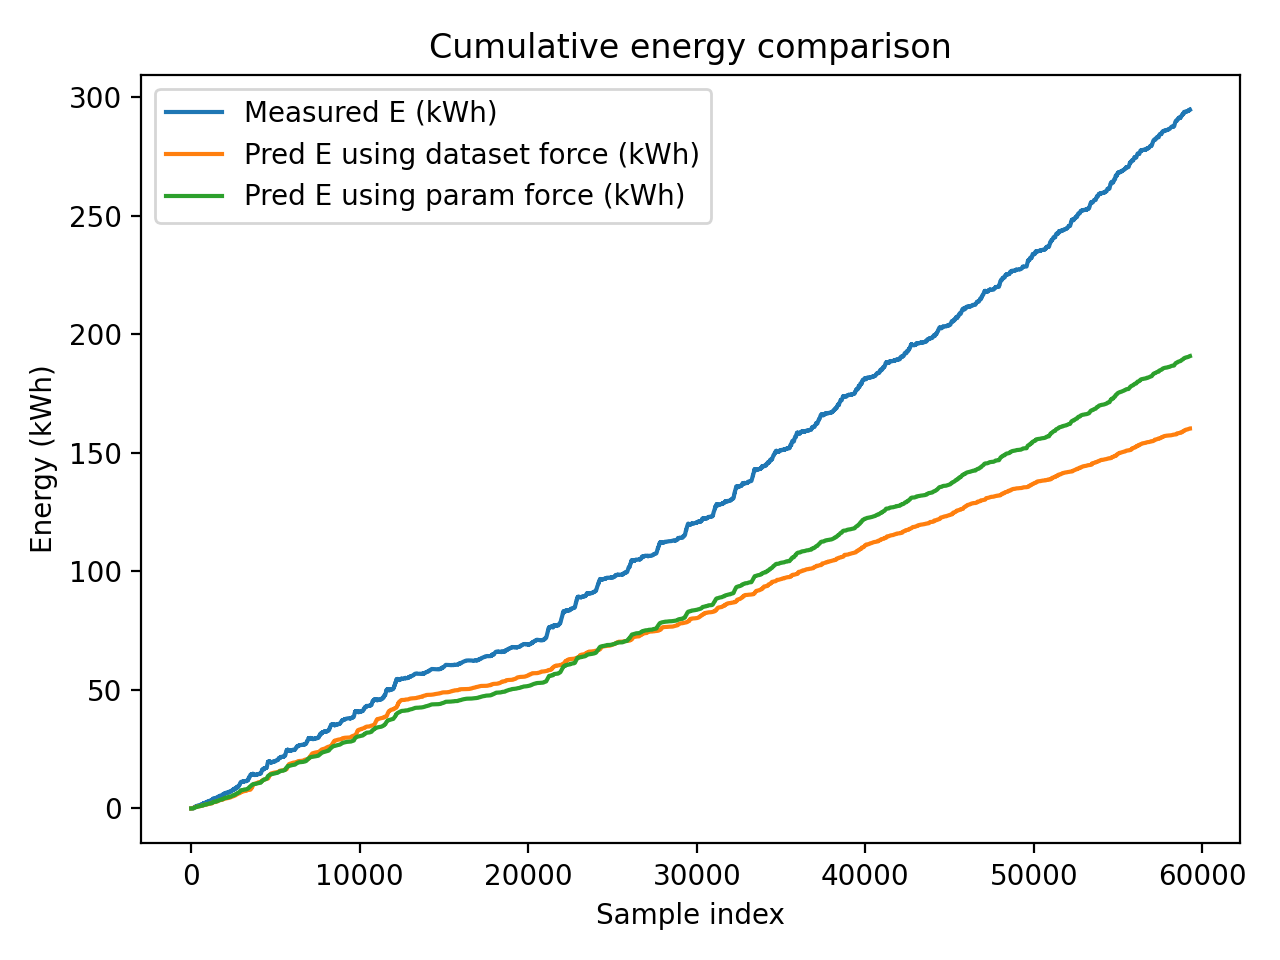
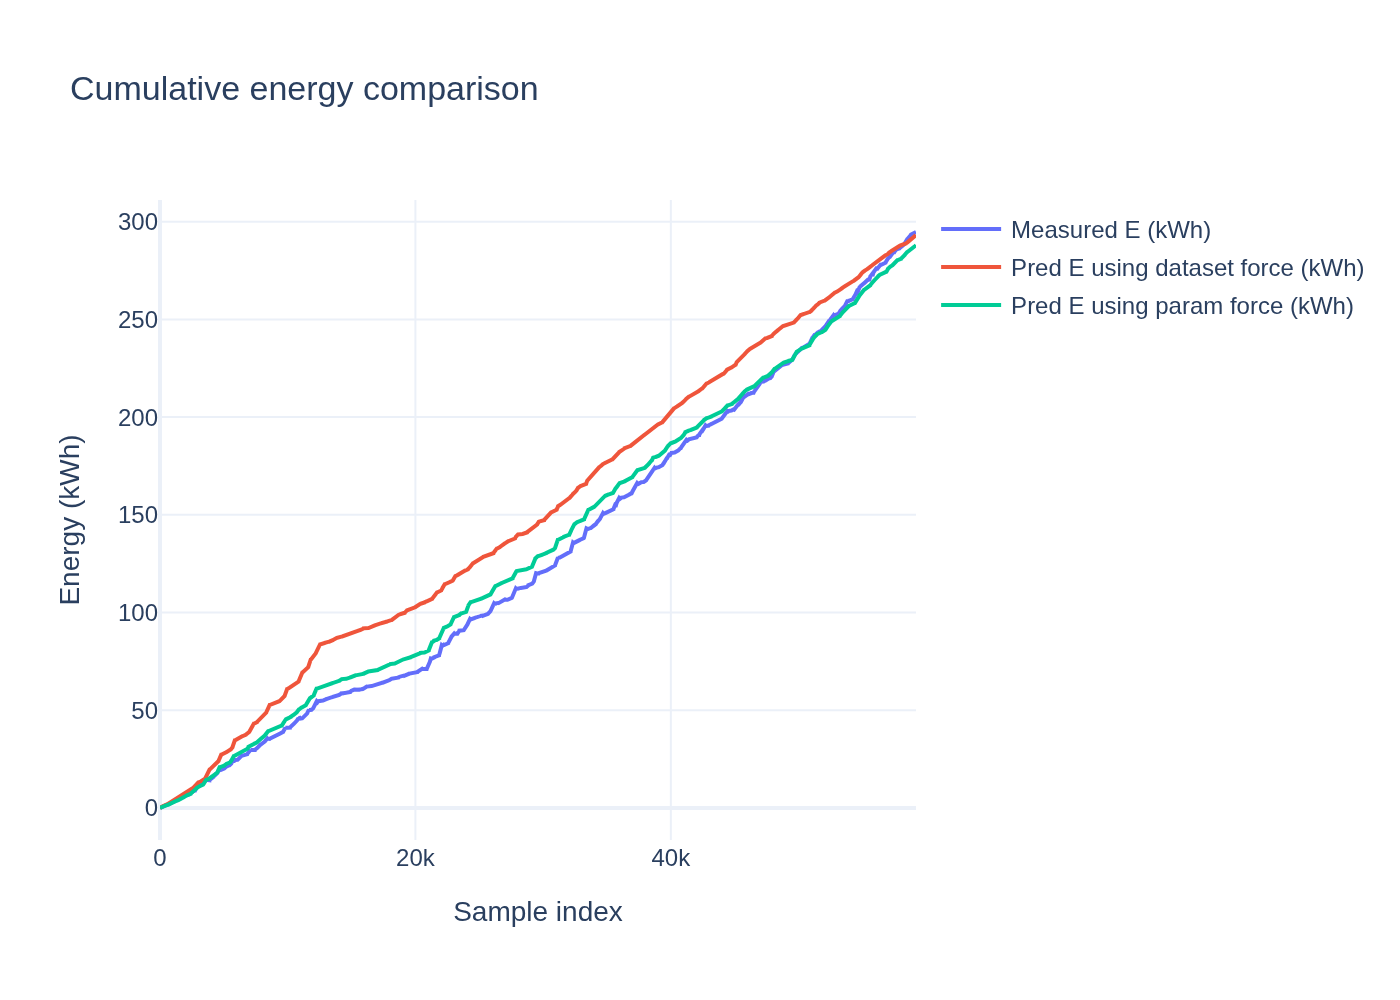
Improved accuracy, added AC energy accounting option and enabled plotly mode

diff --git a/ev_energy_model_validation_v2.py b/ev_energy_model_validation_v2.py
@@ -7,7 +7,7 @@ import plotly.io as pio
 
 pio.renderers.default = "browser" 
 
-matplotlib_mode = True # sets wether matplotlib or plotly express (in browser window) are used
+matplotlib_mode = False # sets wether matplotlib or plotly express (in browser window) are used
 
 TRACKING_FILE = "Tracking_data_efficiecny.csv"
 CURVE_PT_FILE = Path("curves") / "eta_powertrain_vs_speed.csv"
@@ -47,28 +47,34 @@ v = df["v_mps"].to_numpy()
 a = df["Acceleration"].to_numpy()
 theta = df["Slope Angle (rad)"].to_numpy()
 
+# tracking dataset has no battery temperature -> assume 10C for now
+T_assumed = 10.0
+
+# typical AC systems use up to 5-6kw for a midsize car
+is_ac_on = 0
+ac_power_draw = 5500
+
 # ---------- mech power from dataset resistive force ----------
 # NOTE: Resistive force can be negative depending on sign conventions.
 # For consumption validation we keep positive traction demand only.
 F_res = df["Total Resistive Force"].to_numpy()
-P_mech_data_W = np.maximum(F_res * v, 0.0)
+P_mech_data_W = np.maximum(F_res * v*1.8+(ac_power_draw*is_ac_on), 0.0)
 df["P_mech_data_kW"] = P_mech_data_W / 1000.0
 
 # ---------- mech power from assumed parameters (for comparison) ----------
 F_aero = 0.5 * RHO * CD * A * v**2
 F_rr   = CRR * MASS * G * np.cos(theta)
-F_gr   = MASS * G * np.sin(theta)
+F_gr   = MASS * G * np.sin(theta) *1.8
 F_in   = MASS * a
 
-P_mech_param_W = np.maximum((F_aero + F_rr + F_gr + F_in) * v, 0.0)
+P_mech_param_W = np.maximum((F_aero + F_rr + F_gr + F_in) * v*1.1, 0.0)
 df["P_mech_param_kW"] = P_mech_param_W / 1000.0
 
 # ---------- apply efficiencies ----------
 eta_pt = interp_1d(df["Speed"].to_numpy(), pt["speed_kph"], pt["eta_powertrain_mean"])
 eta_pt = np.clip(eta_pt, 0.70, 0.98)
 
-# tracking dataset has no battery temperature -> assume 25C for now
-T_assumed = 25.0
+
 eta_bat = interp_1d(np.full(len(df), T_assumed), bat["T_bat_C"], bat["eta_battery_mean"])
 eta_bat = np.clip(eta_bat, 0.70, 0.995)
 

diff --git a/build_eta_powertrain.py b/build_eta_powertrain.py
@@ -2,7 +2,7 @@ import pandas as pd
 import numpy as np
 from pathlib import Path
 
-matplotlib_mode = True
+matplotlib_mode = False
 
 # ==========================================================
 # CONFIGURATION

diff --git a/build_eta_battery.py b/build_eta_battery.py
@@ -7,7 +7,7 @@ import plotly.graph_objects as go
 import plotly.io as pio
 pio.renderers.default = "browser"
 
-matplotlib_mode = True
+matplotlib_mode = False
 
 # =========================
 # CONFIG
